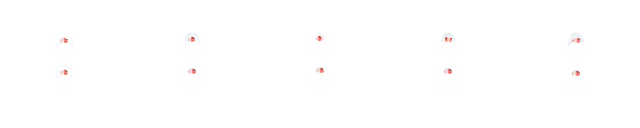
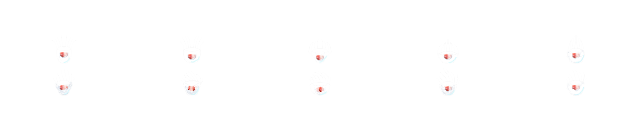
adding textbox

diff --git a/js/game.js b/js/game.js
@@ -13,6 +13,9 @@ import {
 //import room data
 import { room_data } from "./room_data.js";
 
+//import text
+import { dialogues } from "./Dialogue.js";
+
 //////////////////////////////////////////////
   // for all bullet manager and bullet graphics, scroll down
 ///////////////////////////////////////////
@@ -33,15 +36,15 @@ const PLAYER_MAX_SPEED = 7;
 const PLAYER_HEAL_SPEED = 1;
 
 //player body size
-const PLAYER_WIDTH = 100;
-const PLAYER_HEIGHT = 100;
+const PLAYER_WIDTH = 96;
+const PLAYER_HEIGHT = 96;
 
 //player health and damage
 const PLAYER_MAX_HEALTH = 100;
 const PLAYER_IFRAME_DURATION = 100;
 
 //player rotate smooth stuff
-const rotationSpeed = 0.001; //Lower = slower turning, Higher = faster turning (0.0 to 1.0)
+const rotationSpeed = 0.001; 
 
 //damage
 const TRASH_DAMAGE = 5;
@@ -55,7 +58,7 @@ const DASH_COOLDOWN = 1500;
 
 //zap
 const ZAP_DURATION = 1500;
-const ZAP_COOLDOWN = 3000;
+const ZAP_COOLDOWN = 2000;
 
 //regen
 const HEAL_DURATION = 2000;
@@ -125,6 +128,7 @@ const player = {
 };
   
 //TEXTURES
+  PIXI.TextureSource.defaultOptions.scaleMode = 'nearest';
   const ralsei_texture = await PIXI.Assets.load("assets/ralsei.webp");
   const crimson_texture = await PIXI.Assets.load("assets/crimson.png");
   const heart_texture = await PIXI.Assets.load("assets/heart.png");
@@ -152,10 +156,10 @@ const player = {
 
   const frames = [];
 
-  function loadPlayerAnimation(Animation) {
+  function load_player_animation(animation) {
     for (let i = 0; i < totalFrames; i++) {
       const frameX = i * fullFrameWidth + fullFrameWidth / 2 - playerFrameWidth / 2;
-      const frameY = Animation * playerFrameHeight + fullFrameHeight / 2 - playerFrameHeight;
+      const frameY = animation * playerFrameHeight + fullFrameHeight / 2 - playerFrameHeight;
 
       const rect = new PIXI.Rectangle(frameX, frameY, playerFrameWidth, playerFrameHeight);
 
@@ -167,7 +171,7 @@ const player = {
     };
   };
   
-  loadPlayerAnimation(0);
+  load_player_animation(0);
 
 ////////////////////////////////////////
 //PIXI INIT + WORLD CONTAINER
@@ -178,7 +182,7 @@ const player = {
     width: APP_WIDTH,
     height: APP_HEIGHT,
     backgroundColor: APP_BG_COLOR,
-    antialias: true,
+    antialias: false,
   });
 
   world = new PIXI.Container();
@@ -255,6 +259,9 @@ const player = {
 
   let bullets = [];
   let bullet_graphics = [];
+
+  let text_boxes = [];
+  let text_box_graphics = [];
 
   let room_label = new PIXI.Text({
     text: "room_1",
@@ -424,6 +431,11 @@ const player = {
     bullet_boxes.forEach((t) => Composite.remove(engine.world, t));
     bullet_box_graphics = [];
     bullet_boxes = [];
+
+    text_box_graphics.forEach((g) => world.removeChild(g));
+    text_boxes.forEach((t) => Composite.remove(engine.world, t));
+    text_box_graphics = [];
+    text_boxes = [];
 
     Matter.Body.setPosition(box, { x: spawnX, y: spawnY });
     Matter.Body.setVelocity(box, { x: 0, y: 0 });
@@ -711,7 +723,7 @@ const player = {
   }
 
   //player sprite
-  async function createPlayerSprite() {
+  async function create_player() {
     //boxGraphic = new PIXI.Sprite(ralsei_texture);
     boxGraphic = new PIXI.AnimatedSprite(frames);
     boxGraphic.animationSpeed = 0.1;
@@ -719,13 +731,13 @@ const player = {
     boxGraphic.zIndex = "8";
     boxGraphic.width = PLAYER_WIDTH;
     boxGraphic.height = PLAYER_HEIGHT;
-    boxGraphic.anchor.set(0.5, 0.25);
+    boxGraphic.anchor.set(0.5, 0.5);
     world.addChild(boxGraphic);
 
     Composite.add(engine.world, [box]);
     load_rooms("room_2", 200, window.innerHeight / 2);
   }
-  await createPlayerSprite();
+  await create_player();
 
   //collisiion checker
   function check_collision(player, object) {
@@ -894,21 +906,21 @@ const player = {
     
     //PLAYERSTATE LOGIC
     if (playerState == "idle") {
-      loadPlayerAnimation(0);
+      load_player_animation(0);
       boxGraphic.animationSpeed = 0.1;
     }
     if (playerState == "moving") {
-      //loadPlayerAnimation(0);
+      //load_player_animation(0);
       boxGraphic.animationSpeed = 0.2;
     }
     if (playerState == "dashing") {
-      loadPlayerAnimation(1);
+      load_player_animation(1);
     }
     if (player.is_zapping) {
-      // Handle zapping state logic
+      
     }
     if (player.is_healing) {
-      // Handle healing state logic
+      
     }
 
     //healthbar update
@@ -1010,7 +1022,7 @@ const player = {
 
     Matter.Body.setVelocity(box, { x: v1x, y: v1y });
     boxGraphic.position.set(box.position.x, box.position.y);
-    boxGraphic.rotation = box.angle + Math.PI / 2;
+    boxGraphic.angle = 180;
 
     const speed = Math.hypot(v1x, v1y);
     /*
@@ -1042,9 +1054,6 @@ const player = {
     };
     console.log(`${playerState}`)
     */
-
-    boxGraphic.position.set(box.position.x, box.position.y);
-    boxGraphic.rotation = box.angle + Math.PI / 2;
 
     /////////////////////////////////////////
     //CAMERA FOLLOW SYSTEM

diff --git a/js/Dialogue.js b/js/Dialogue.js
@@ -1,4 +1,4 @@
-export const dialogue = {
+export const dialogues = {
     name_1: [
         { speaker: "Crimson", text: "test text" },
         { speaker: "Test Dialogue", text: "It works!"},
